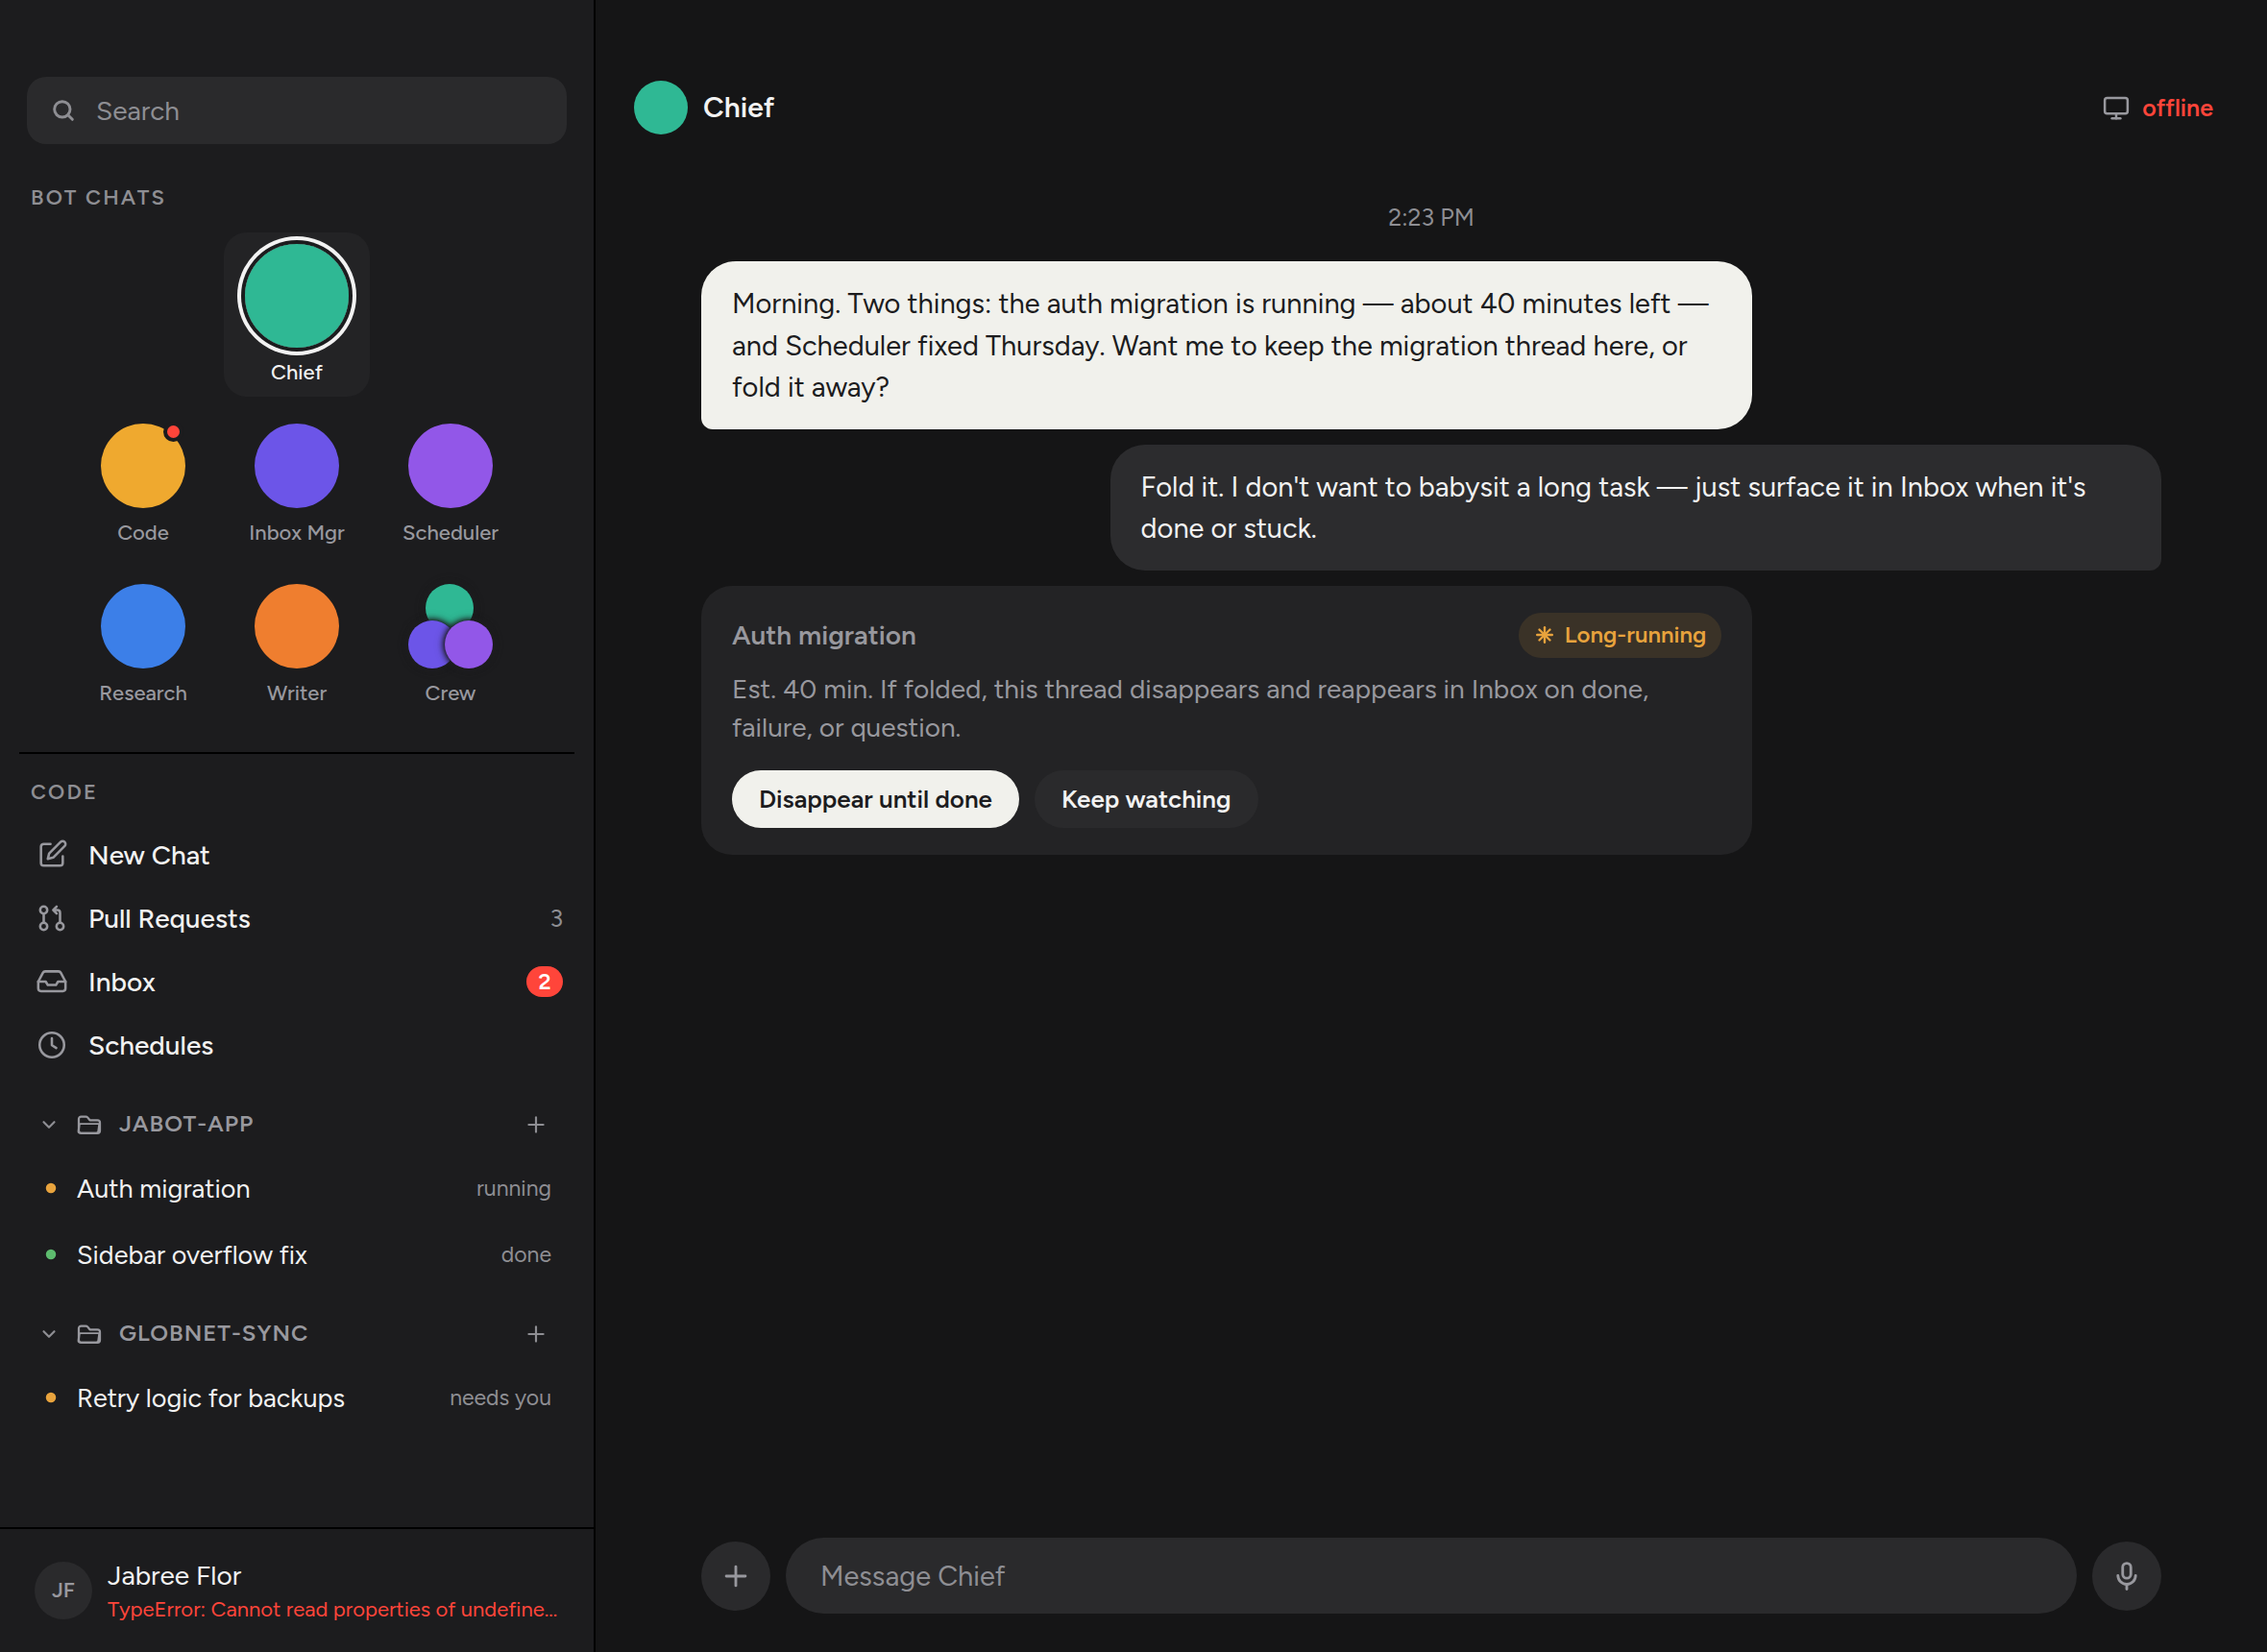
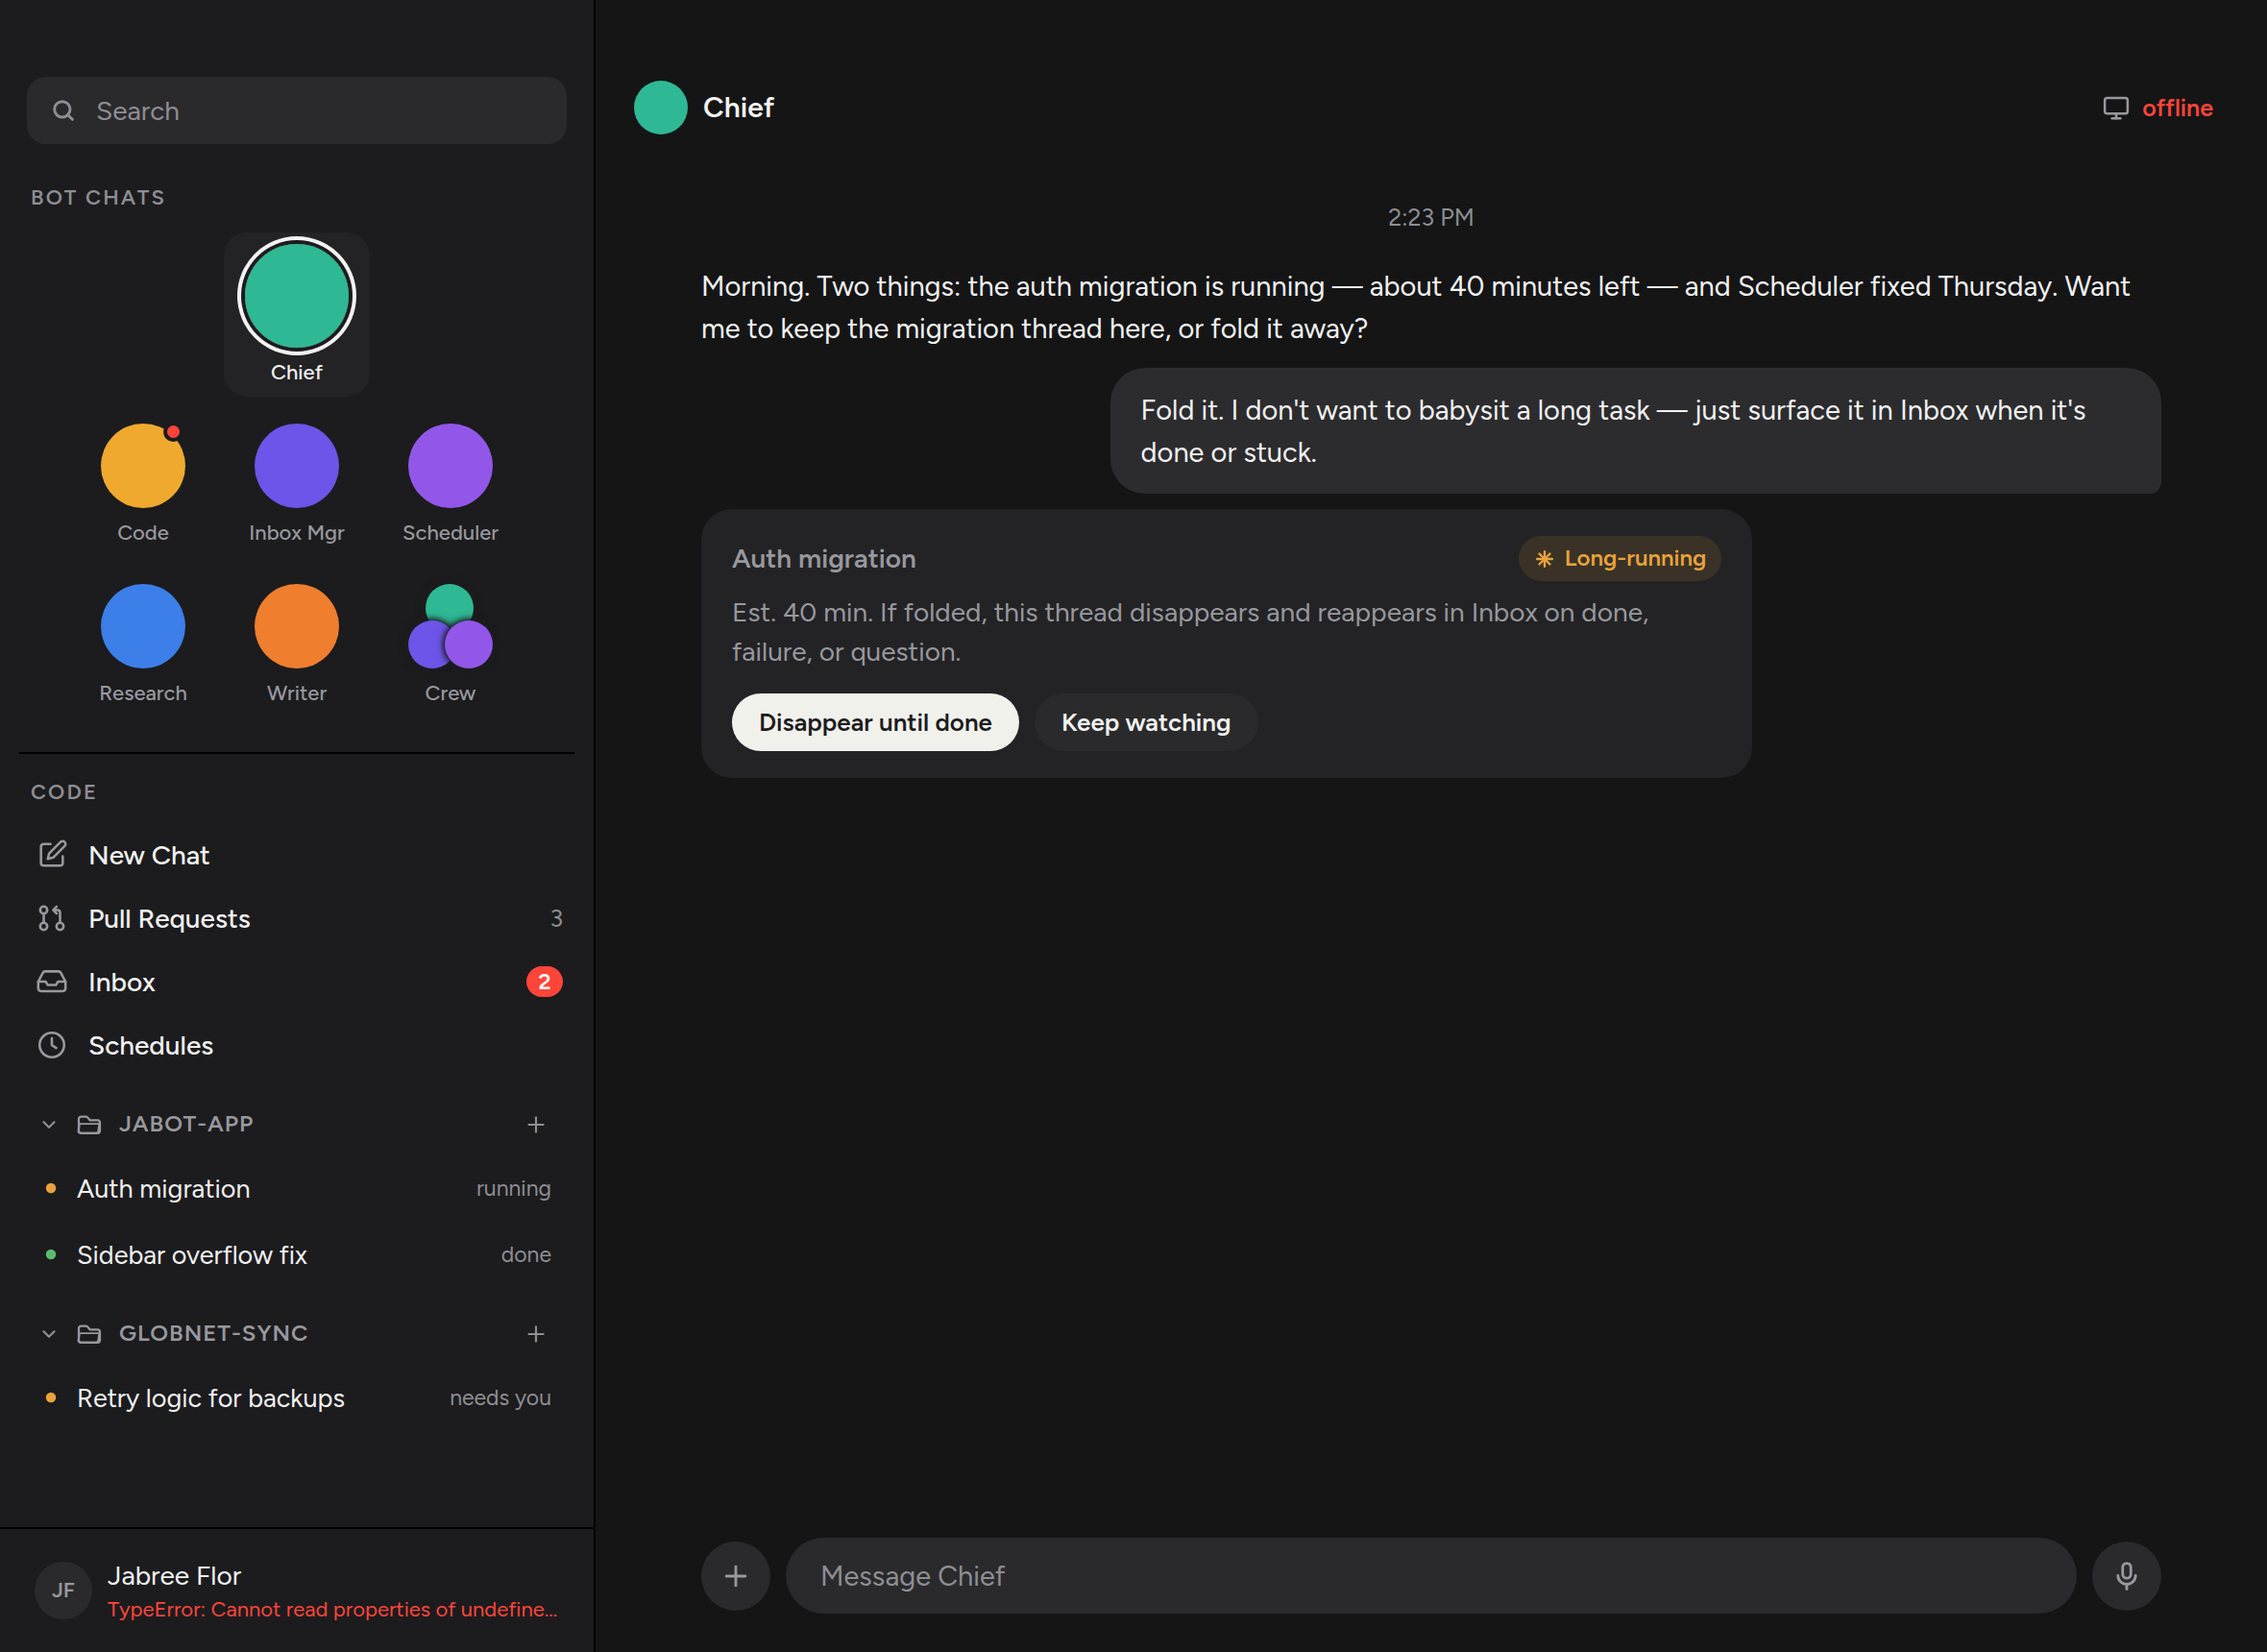
Drop the bubble around bot replies
The agent writes on the chat ground in light ink instead of sitting in a
balloon. Own messages stay a graphite bubble on the right; primary chrome
still uses the cream fill.

Changed region(s): [[0.3093, 0.1541, 0.928, 0.339], [0.3093, 0.339, 0.7733, 0.5238]]

diff --git a/docs/img/invert-chat-colors/explainer.html b/docs/img/invert-chat-colors/explainer.html
@@ -2,7 +2,7 @@
 <html lang="en">
 <meta charset="utf-8">
 <meta name="viewport" content="width=device-width">
-<title>Inbound cream, own graphite</title>
+<title>Bot as prose, me as a bubble</title>
 <style>
   body { background: #171717; color: #eee; font: 17px/1.6 system-ui; max-width: 980px; margin: 48px auto; padding: 0 24px; }
   h1 { font-size: 38px; line-height: 1.2; }
@@ -13,27 +13,27 @@
   .pair { display: grid; gap: 16px; }
   figcaption { color: #8e8e93; font-size: 14px; margin: 8px 0 0; }
 </style>
-<h1>Inbound cream, own graphite</h1>
-<p>Chat bubbles swap sides of the cream/graphite pair. Inbound (left) is cream with dark ink. Your own messages (right) are graphite with light ink. The rest of the shell — primary buttons, selected tabs, pressed tool chips — stays cream.</p>
+<h1>Bot as prose, me as a bubble</h1>
+<p>The agent no longer speaks from a balloon. Inbound text sits on the chat ground in light ink. Your own messages stay a graphite bubble on the right. Primary chrome — tabs, <code>.btn.primary</code>, pressed tool chips — stays cream.</p>
 <h2>Before and after</h2>
 <div class="pair">
   <figure>
-    <img src="before.png" alt="Chief chat before the invert: graphite inbound bubble, cream own bubble">
-    <figcaption>Before — cream on the right, graphite on the left.</figcaption>
+    <img src="before.png" alt="Chief chat before: graphite inbound bubble, cream own bubble">
+    <figcaption>Before — both sides in bubbles; cream on the right, graphite on the left.</figcaption>
   </figure>
   <figure>
-    <img src="after.png" alt="Chief chat after the invert: cream inbound bubble, graphite own bubble">
-    <figcaption>After — cream inbound, graphite mine.</figcaption>
+    <img src="after.png" alt="Chief chat after: bot as plain text, graphite own bubble">
+    <figcaption>After — the bot is prose on the page; only your words are in a bubble.</figcaption>
   </figure>
 </div>
 <h2>How it works</h2>
-<p><code>--bub-bot</code> is now the cream inbound fill; <code>--bub-me</code> is graphite. A new <code>--cream</code> token keeps primary chrome on the old high-contrast fill so tabs and <code>.btn.primary</code> do not go dark with the own-bubble. Inside an inbound bubble, fenced and inline code keep light ink on the sunk ground so markdown stays readable on cream.</p>
+<p><code>.msg.bot .bubble</code> drops the fill, radius, and 72% cap so the reply is just type on <code>--chat</code>. <code>.msg.me .bubble</code> keeps <code>--bub-me</code> graphite. A <code>--cream</code> token holds the old high-contrast fill for tabs and buttons, which used to borrow the own-bubble colour.</p>
 <h2>What to look at</h2>
 <ul>
-  <li><code>src/styles/tokens.css</code> — bubble tokens and the cream chrome fill.</li>
-  <li><code>src/styles/chat.css</code> — inbound ink on <code>.bubble</code>, light ink on code inside a bot bubble.</li>
-  <li><code>src/styles/shell.css</code>, <code>cards.css</code>, <code>modal.css</code>, <code>schedules.css</code> — primary chrome now uses <code>--cream</code>.</li>
+  <li><code>src/styles/chat.css</code> — bot reply is unfilled; me is still a bubble.</li>
+  <li><code>src/styles/tokens.css</code> — <code>--bub-me</code> for own messages, <code>--cream</code> for chrome.</li>
+  <li><code>src/styles/shell.css</code>, <code>cards.css</code>, <code>modal.css</code>, <code>schedules.css</code> — primary chrome uses <code>--cream</code>.</li>
 </ul>
 <h2>How to verify</h2>
-<p>Run <code>./scripts/verify.sh --fast</code>. In a browser preview of the Vite app, open Chief: the left bubble is cream, the right bubble is graphite, and <code>Disappear until done</code> is still a cream button.</p>
+<p>Run the unit tests and open Chief in a Vite preview. The inbound turn should have no fill behind it; your reply should still be a graphite bubble; <code>Disappear until done</code> should still be a cream button.</p>
 </html>

diff --git a/src/styles/chat.css b/src/styles/chat.css
@@ -1,7 +1,8 @@
 /*
- * Transcript and composer — cream bubble left for inbound, graphite bubble
- * right for me, both with a squared-off tail corner; monospace toolblocks
- * sunk below the chat ground so machine output never competes with speech.
+ * Transcript and composer — the bot speaks as prose on the chat ground, my
+ * words sit in a graphite bubble on the right with a squared-off tail corner;
+ * monospace toolblocks sink below the ground so machine output never competes
+ * with speech.
  */
 
 .chat-head {
@@ -161,22 +162,31 @@
 }
 
 .bubble {
-  max-width: 72%;
-  padding: 11px var(--sp-5);
-  border-radius: var(--r-bubble);
   font-size: var(--fs-chat);
   line-height: var(--lh-chat);
   white-space: pre-line;
-  background: var(--bub-bot);
-  color: var(--bub-bot-ink);
-  align-self: flex-start;
-  border-bottom-left-radius: var(--r-tail);
+}
+
+/* The bot is not in a balloon. A cream (or graphite) fill around someone
+   else's words made the thread look like iMessage; the agent is writing on
+   the page, and the page is already the chat ground. */
+.msg.bot .bubble {
+  max-width: 100%;
+  padding: 2px 0;
+  background: none;
+  color: var(--ink);
+  border-radius: 0;
+  /* Markdown draws real block elements; `pre-line` on the wrapper would turn
+     every newline between `</p>` and the next `<p>` into a blank line. */
+  white-space: normal;
 }
 
 .msg.me .bubble {
+  max-width: 72%;
+  padding: 11px var(--sp-5);
   background: var(--bub-me);
   color: var(--bub-me-ink);
-  border-bottom-left-radius: var(--r-bubble);
+  border-radius: var(--r-bubble);
   border-bottom-right-radius: var(--r-tail);
 }
 
@@ -495,21 +505,16 @@
   color: var(--danger);
 }
 
-/* Markdown inside an agent bubble (#14).
+/* Markdown inside an agent reply (#14).
  *
- * `.bubble` has `white-space: pre-line`, which is right for a text node and
- * fights real block elements — every newline between a `</p>` and the next
- * `<p>` becomes a blank line. The agent bubble draws elements now, so it takes
- * `normal` and the elements below carry the spacing; `pre` and `code` put
- * `pre-wrap` back, because inside code the whitespace is the content.
+ * The wrapper is already `white-space: normal` (above). Paragraphs put
+ * `pre-line` back so an agent's deliberate line breaks still show; `pre` and
+ * `code` put `pre-wrap` back, because inside code the whitespace is the
+ * content.
  *
  * The user bubble is untouched and stays literal: a person's asterisks are
  * their own.
  */
-.msg.bot .bubble {
-  white-space: normal;
-}
-
 .msg.bot .bubble > p {
   margin: 0;
   /* The one thing `pre-line` was doing that is still wanted: an agent's line
@@ -537,7 +542,6 @@
 .msg.bot .bubble code {
   font: 0.92em / var(--lh-mono) var(--font-mono);
   background: var(--sunk);
-  color: var(--ink);
   border-radius: 5px;
   padding: 1px 5px;
   white-space: pre-wrap;
@@ -546,11 +550,10 @@
 .msg.bot .bubble pre {
   margin-bottom: 0;
   background: var(--sunk);
-  color: var(--ink);
   border: 1px solid var(--sunk-edge);
   border-radius: var(--r-md);
   padding: var(--sp-3) var(--sp-4);
-  /* A long line scrolls rather than widening the 72% bubble past it. */
+  /* A long line scrolls rather than widening the column. */
   overflow-x: auto;
 }
 

diff --git a/src/styles/tokens.css b/src/styles/tokens.css
@@ -28,13 +28,11 @@
      is used at, and the uppercase 11px form labels are its worst case. */
   --faint: #8e8e93;
 
-  /* cream — inbound bubbles and primary chrome (tabs, buttons, chips) */
+  /* cream — primary chrome (tabs, buttons, chips) */
   --cream: #f1f1ec;
   --cream-ink: #1c1c1e;
 
-  /* bubbles — cream inbound, graphite mine */
-  --bub-bot: var(--cream);
-  --bub-bot-ink: var(--cream-ink);
+  /* my bubble — graphite on the chat ground; the bot has no balloon */
   --bub-me: #2c2c2e;
   --bub-me-ink: #f2f2f2;
 

diff --git a/src/__tests__/transcript.test.tsx b/src/__tests__/transcript.test.tsx
@@ -72,7 +72,7 @@ describe("Transcript", () => {
     expect(container.querySelector(".fail")?.textContent).toContain("failed");
   });
 
-  it("puts inbound words in a cream bubble and mine in a graphite one", () => {
+  it("puts my words in a bubble and the bot's on the page", () => {
     const { container } = render(
       <Transcript
         items={[

diff --git a/docs/img/invert-chat-colors/README.md b/docs/img/invert-chat-colors/README.md
@@ -1,17 +1,16 @@
-# Invert chat bubble colours
+# Chat: bot as prose, me as a bubble
 
-Evidence for inbound cream / own graphite. Both frames are the real `App` in
-Chromium at deviceScaleFactor 2 against the Vite preview (no Tauri host), on
-the same Chief fixture: one inbound turn, one reply, and the fold offer.
+Evidence for taking the balloon off the agent. Both frames are the real `App`
+in Chromium at deviceScaleFactor 2 against the Vite preview (no Tauri host),
+on the same Chief fixture.
 
 The host TypeError in the sidebar footer is the preview transport, not this
 change — it is identical in both frames.
 
 | file | what it shows |
 | --- | --- |
-| `before.png` | cream on the right (me), graphite on the left (inbound) |
-| `after.png` | cream on the left (inbound), graphite on the right (me) |
+| `before.png` | cream bubble on the right (me), graphite bubble on the left (bot) |
+| `after.png` | bot as light ink on the chat ground; me still a graphite bubble |
 
-Primary chrome (tabs, `.btn.primary`, tool chips) stays cream. Those used to
-borrow `--bub-me`; they now use `--cream` so inverting the bubbles does not
-invert the rest of the shell.
+Primary chrome (tabs, `.btn.primary`, tool chips) stays cream via `--cream`.
+The fold offer is still a notice card — that is a decision, not a reply.
